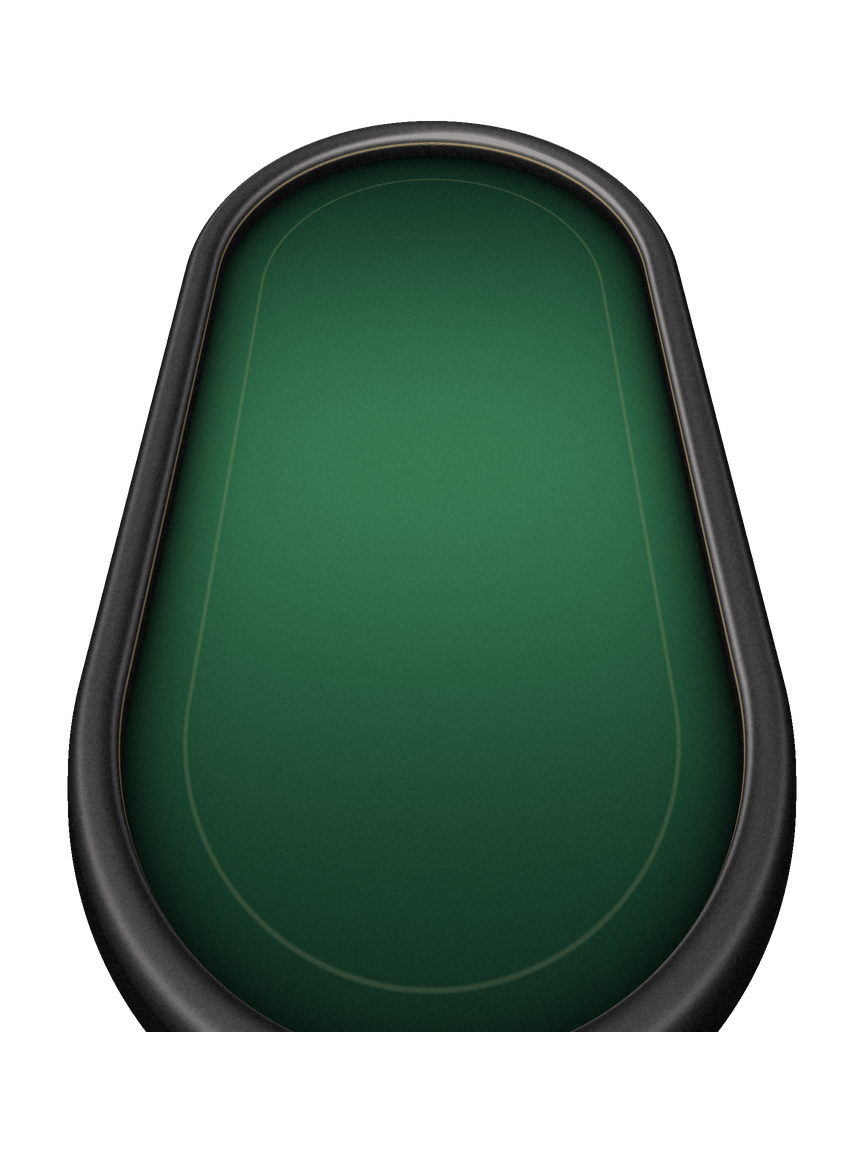
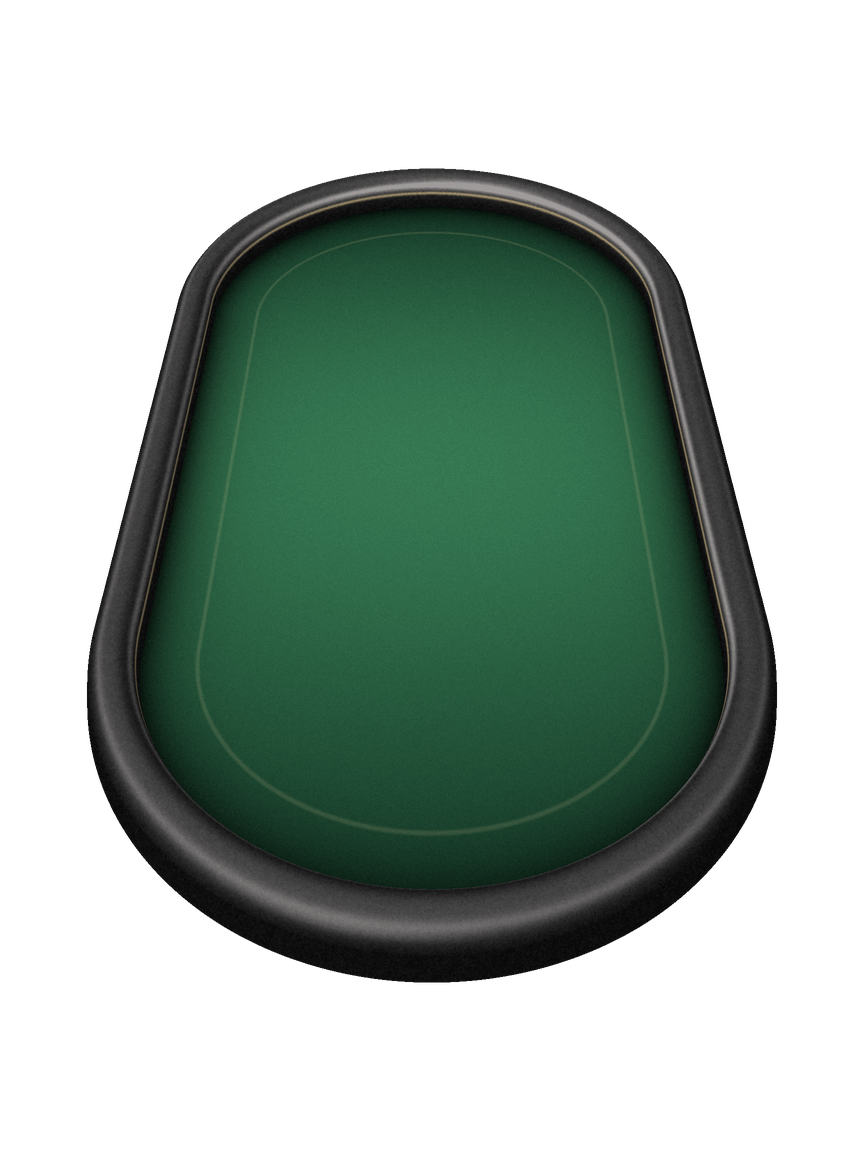
fix(table): a phone table that is not cut off, and a check that says so

diff --git a/lib/table-seating.ts b/lib/table-seating.ts
@@ -41,63 +41,63 @@ const RAIL_PULL = 0
  * the way ClubGG's phone client does.
  */
 const PORTRAIT: Record<number, SeatPoint[]> = {
-  1: [{ left: 50, top: 92 }],
+  1: [{ left: 50, top: 86 }],
   2: [
-    { left: 50, top: 92 },
-    { left: 50, top: 12 },
+    { left: 50, top: 86 },
+    { left: 50, top: 16 },
   ],
   3: [
-    { left: 50, top: 92 },
+    { left: 50, top: 86 },
     { left: 13, top: 34 },
     { left: 87, top: 34 },
   ],
   4: [
-    { left: 50, top: 92 },
+    { left: 50, top: 86 },
     { left: 13, top: 50 },
-    { left: 50, top: 12 },
+    { left: 50, top: 16 },
     { left: 87, top: 50 },
   ],
   5: [
-    { left: 50, top: 92 },
+    { left: 50, top: 86 },
     { left: 13, top: 70 },
     { left: 13, top: 22 },
     { left: 87, top: 22 },
     { left: 87, top: 70 },
   ],
   6: [
-    { left: 50, top: 92 },
+    { left: 50, top: 86 },
     { left: 13, top: 72 },
     { left: 13, top: 26 },
-    { left: 50, top: 12 },
+    { left: 50, top: 16 },
     { left: 87, top: 26 },
     { left: 87, top: 72 },
   ],
   7: [
-    { left: 50, top: 92 },
+    { left: 50, top: 86 },
     { left: 15, top: 78 },
     { left: 11, top: 50 },
     { left: 14, top: 22 },
-    { left: 50, top: 12 },
+    { left: 50, top: 16 },
     { left: 86, top: 22 },
     { left: 85, top: 78 },
   ],
   8: [
-    { left: 50, top: 92 },
+    { left: 50, top: 86 },
     { left: 15, top: 79 },
     { left: 11, top: 52 },
     { left: 14, top: 24 },
-    { left: 50, top: 12 },
+    { left: 50, top: 16 },
     { left: 86, top: 24 },
     { left: 89, top: 52 },
     { left: 85, top: 79 },
   ],
   9: [
-    { left: 50, top: 92 },
+    { left: 50, top: 86 },
     { left: 16, top: 82 },
     { left: 10, top: 60 },
     { left: 12, top: 34 },
-    { left: 33, top: 12 },
-    { left: 67, top: 12 },
+    { left: 33, top: 16 },
+    { left: 67, top: 16 },
     { left: 88, top: 34 },
     { left: 90, top: 60 },
     { left: 84, top: 82 },

diff --git a/lib/__tests__/table-seating.test.ts b/lib/__tests__/table-seating.test.ts
@@ -43,7 +43,7 @@ describe('the ring of seats', () => {
     // where the board and the pot are.
     for (const count of [3, 4, 6, 8]) {
       for (const seat of seatRing(count, true)) {
-        const middle = Math.abs(seat.left - 50) < 30 && Math.abs(seat.top - 50) < 35
+        const middle = Math.abs(seat.left - 50) < 30 && Math.abs(seat.top - 50) < 30
         expect(middle).toBe(false)
       }
     }

diff --git a/scripts/render-table.py b/scripts/render-table.py
@@ -40,9 +40,9 @@ SS = 2  # supersampling
 MOBILE = {
     'out_w': 864,
     'out_h': 1152,
-    'half_straight': 236,  # the straight run, now up and down the screen
+    'half_straight': 188,  # the straight run, now up and down the screen
     'end_x': 248,  # semi-axis across the table
-    'end_z': 236,  # semi-axis at each end
+    'end_z': 188,  # semi-axis at each end
     'rail': 42,
     'tilt': 0.86,
     'out': 'public/table-mobile.png',
@@ -261,6 +261,15 @@ def main():
     out = Image.fromarray(img, 'RGBA').convert('RGBa')
     out = out.resize((OUT_W, OUT_H), Image.LANCZOS).convert('RGBA')
 
+
+    # Perspective pulls the oval off-centre; sit it in the middle of the box.
+    rows = np.where(np.array(out)[:, :, 3].max(axis=1) > 8)[0]
+    shift = (OUT_H - 1 - rows[-1] - rows[0]) // 2
+    centred = Image.new('RGBA', out.size)
+    centred.paste(out, (0, shift))
+    out = centred
+    print('table rows', rows[0] + shift, '..', rows[-1] + shift)
+
     # Perspective pulls the oval off-centre; sit it in the middle of the box.
     rows = np.where(np.array(out)[:, :, 3].max(axis=1) > 8)[0]
     shift = (OUT_H - 1 - rows[-1] - rows[0]) // 2
@@ -271,6 +280,8 @@ def main():
 
     # A table too big for its box is cut off flat at the canvas edge, which
     # reads as a table sliced through — and is easy to miss in a thumbnail.
+    # Checked before the centring below, which slides a cut edge inboard and
+    # leaves the flat cut looking like a deliberate straight rail.
     edge = np.array(out)[:, :, 3]
     touching = [
         name
